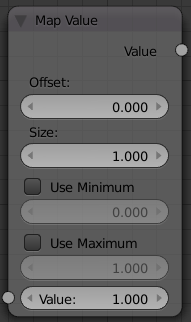
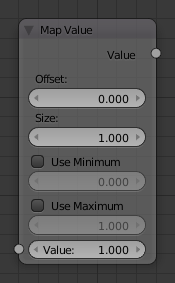
compositing vector nodes screenshots

diff --git a/manual/compositing/types/layout/frame.rst b/manual/compositing/types/layout/frame.rst
@@ -6,12 +6,14 @@ Frame Node
 The Frame node is a useful tool for organizing nodes by collecting related nodes together in a common area.
 Frames are useful when a node setup becomes large and confusing yet the re-usability of a Node Group is not required.
 
-.. figure:: /images/composite_node_layout_frame.png
-   :width: 100%
+.. figure:: /images/compositing_nodes_layout_frame_example.png
 
 
 Properties
 ==========
+
+.. figure:: /images/compositing_nodes_layout_frame_properties.png
+   :align: right
 
 Label size
    Font size of the label. For example, for subordinate frames to have smaller titles.

diff --git a/manual/compositing/types/vector/vector_curves.rst b/manual/compositing/types/vector/vector_curves.rst
@@ -5,9 +5,8 @@
 Vector Curves Node
 ******************
 
-.. figure:: /images/compositing_nodes_vectorcurves.png
+.. figure:: /images/compositing_nodes_vector_vector-curves.png
    :align: right
-   :width: 150px
 
    Vector Curves Node.
 

diff --git a/manual/compositing/types/vector/normalize.rst b/manual/compositing/types/vector/normalize.rst
@@ -3,9 +3,8 @@
 Normalize Node
 **************
 
-.. figure:: /images/compositing_nodes_normalize.png
+.. figure:: /images/compositing_nodes_vector_normalize.png
    :align: right
-   :width: 150px
 
    Normalize Node.
 

diff --git a/manual/compositing/types/vector/map_range.rst b/manual/compositing/types/vector/map_range.rst
@@ -3,9 +3,8 @@
 Map Range Node
 **************
 
-.. figure:: /images/compositing_nodes_maprange.png
+.. figure:: /images/compositing_nodes_vector_map-range.png
    :align: right
-   :width: 150px
 
    Map Range Node.
 

diff --git a/manual/compositing/types/vector/normal.rst b/manual/compositing/types/vector/normal.rst
@@ -5,9 +5,8 @@
 Normal Node
 ***********
 
-.. figure:: /images/compositing_nodes_normal.png
+.. figure:: /images/compositing_nodes_vector_normal.png
    :align: right
-   :width: 150px
 
    Normal Node.
 

diff --git a/manual/compositing/types/vector/map_value.rst b/manual/compositing/types/vector/map_value.rst
@@ -5,7 +5,6 @@ Map Value Node
 
 .. figure:: /images/compositing_nodes_vector_map-value.png
    :align: right
-   :width: 150px
 
    Map Value Node.
 
